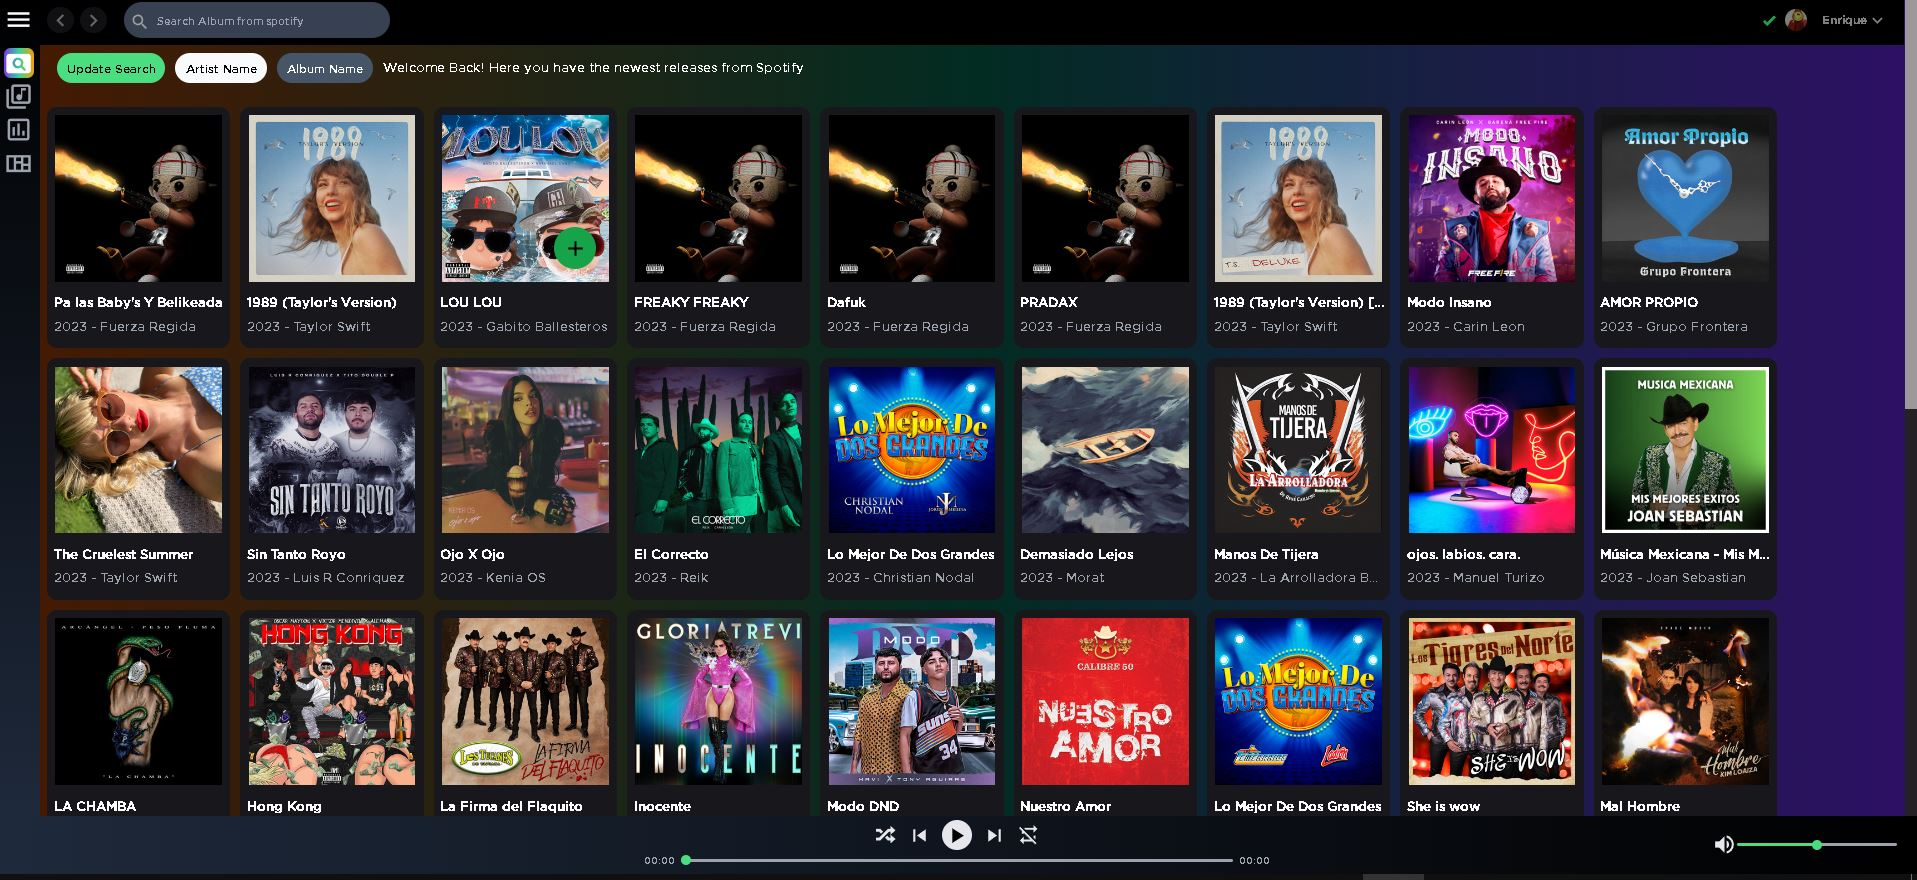
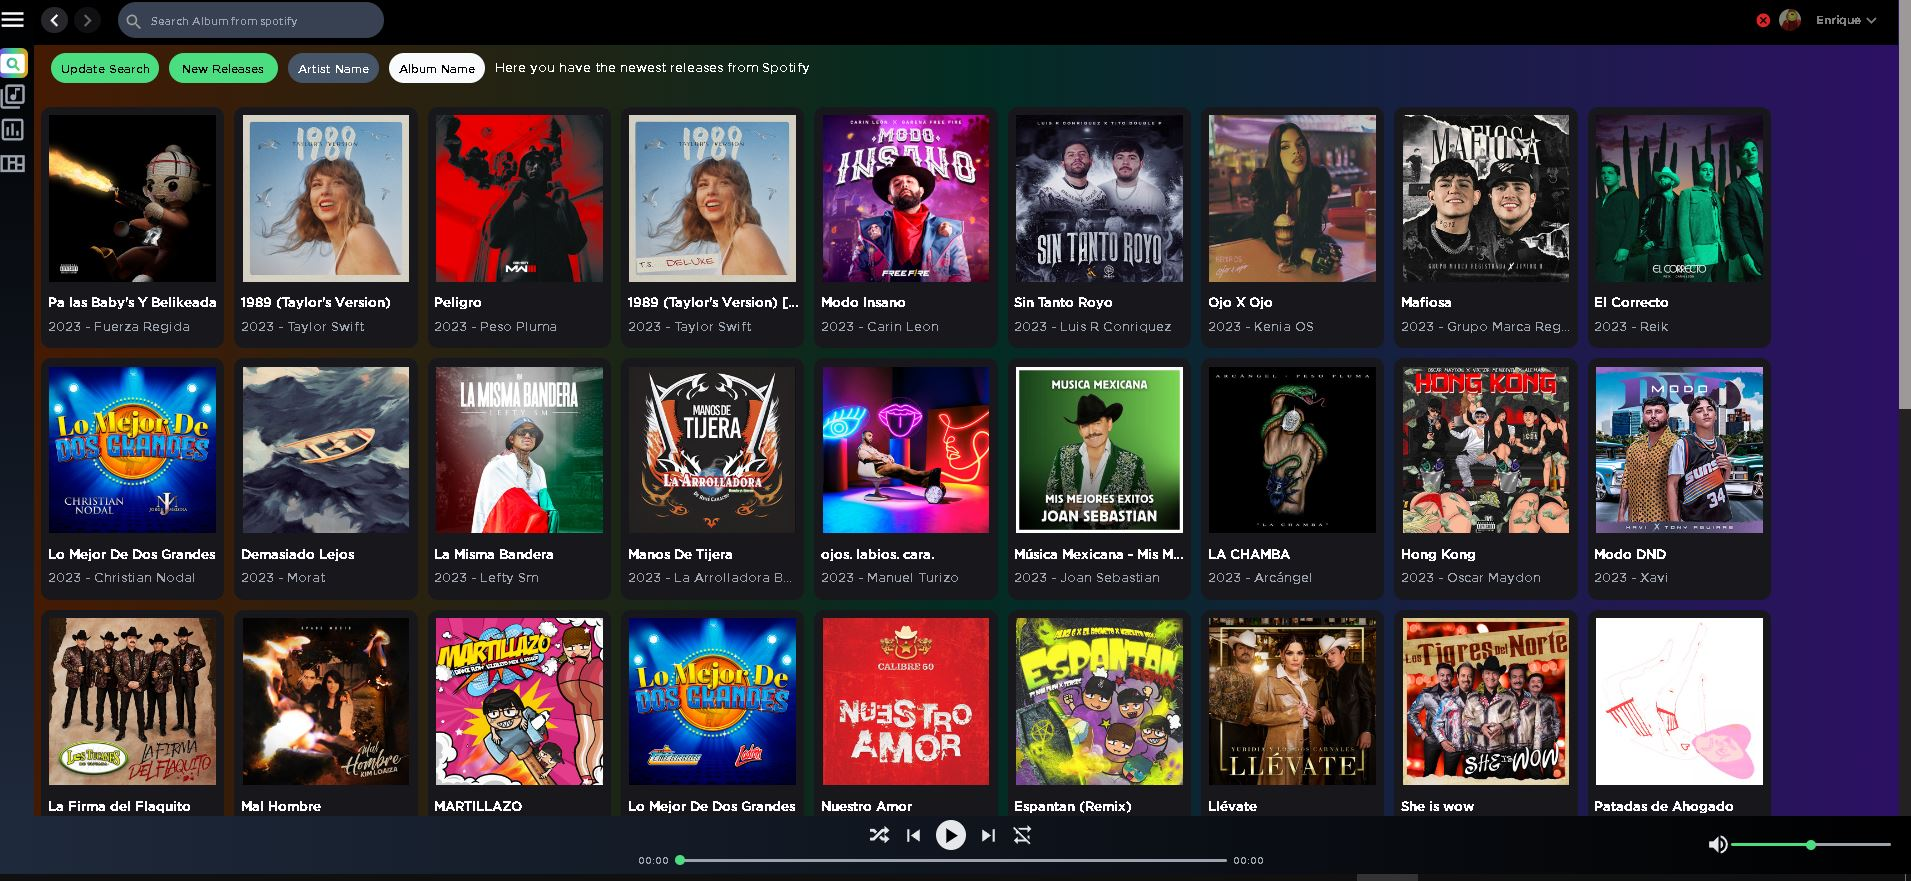
new releases button

diff --git a/src/views/SearchView.vue b/src/views/SearchView.vue
@@ -4,12 +4,15 @@
             <button class="h-[36px] w-[130px] bg-green-400 text-sm text-black active:bg-green-600" @click="searchAlbumSpotify">
                 Update Search
             </button>
+            <button class="h-[36px] w-[130px] bg-green-400 text-sm text-black active:bg-green-600"  @click="newSearch()">
+                New Releases
+            </button>
             <button class="h-[36px] w-[110px]" @click="storeSearchView.typeSearch=true" :class="!typeSearch ? 'bg-slate-600 text-sm text-white  hover:bg-slate-500' : 'bg-slate-50 text-sm text-black' ">
             Artist Name</button>
             <button class="h-[36px] w-[115px]" @click="storeSearchView.typeSearch=false" :class="typeSearch ? 'bg-slate-600 text-sm text-white  hover:bg-slate-500' : 'bg-slate-50 text-sm text-black' ">
             Album Name</button> 
             <div v-if="welcomeMsg && goodResponse" class="text-white">
-                Welcome Back! Here you have the newest releases from Spotify
+               Here you have the newest releases from Spotify
             </div>
             <div v-else>
                 <div v-if="result && goodResponse">        
@@ -70,6 +73,9 @@
         searchAlbumSpotify()
     })
     
+
+
+
     function searchAlbumSpotify(){
         if (!storeSearch.input.length)
             {return}
@@ -106,6 +112,7 @@
                 console.error(error);
             })
             .finally(() => {
+                storeSearchView.welcomeMsg = true
                 loading.value = false                  
             })
     }
